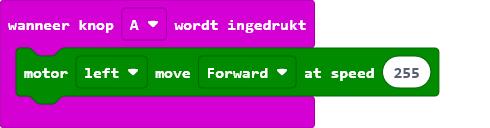
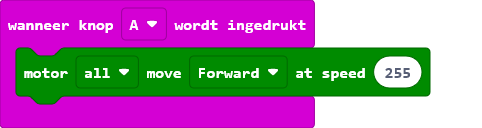
stap a

diff --git a/main.ts b/main.ts
@@ -1,3 +1,3 @@
 input.onButtonPressed(Button.A, function () {
-    maqueen.motorRun(maqueen.Motors.M1, maqueen.Dir.CW, 255)
+    maqueen.motorRun(maqueen.Motors.All, maqueen.Dir.CW, 255)
 })
